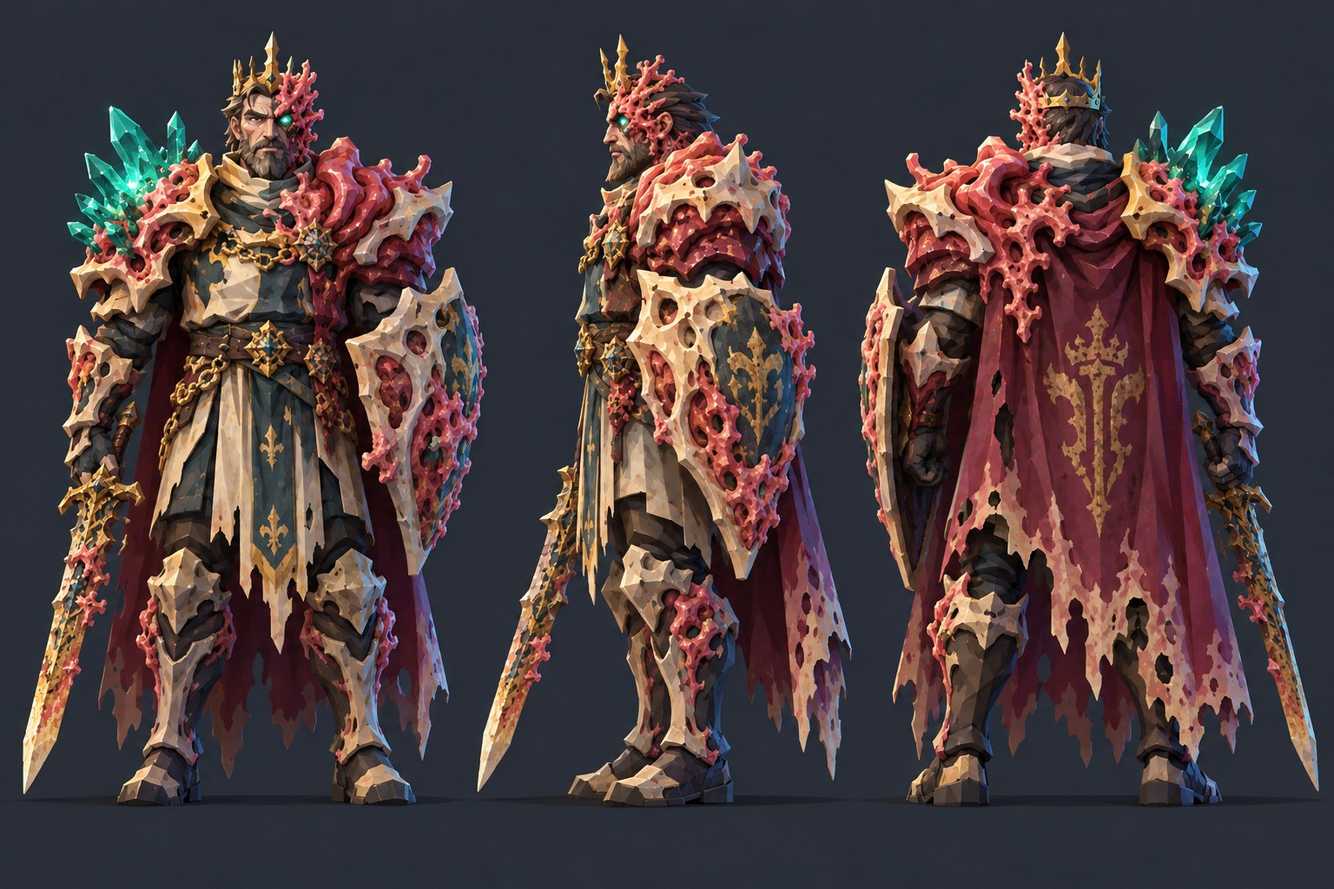
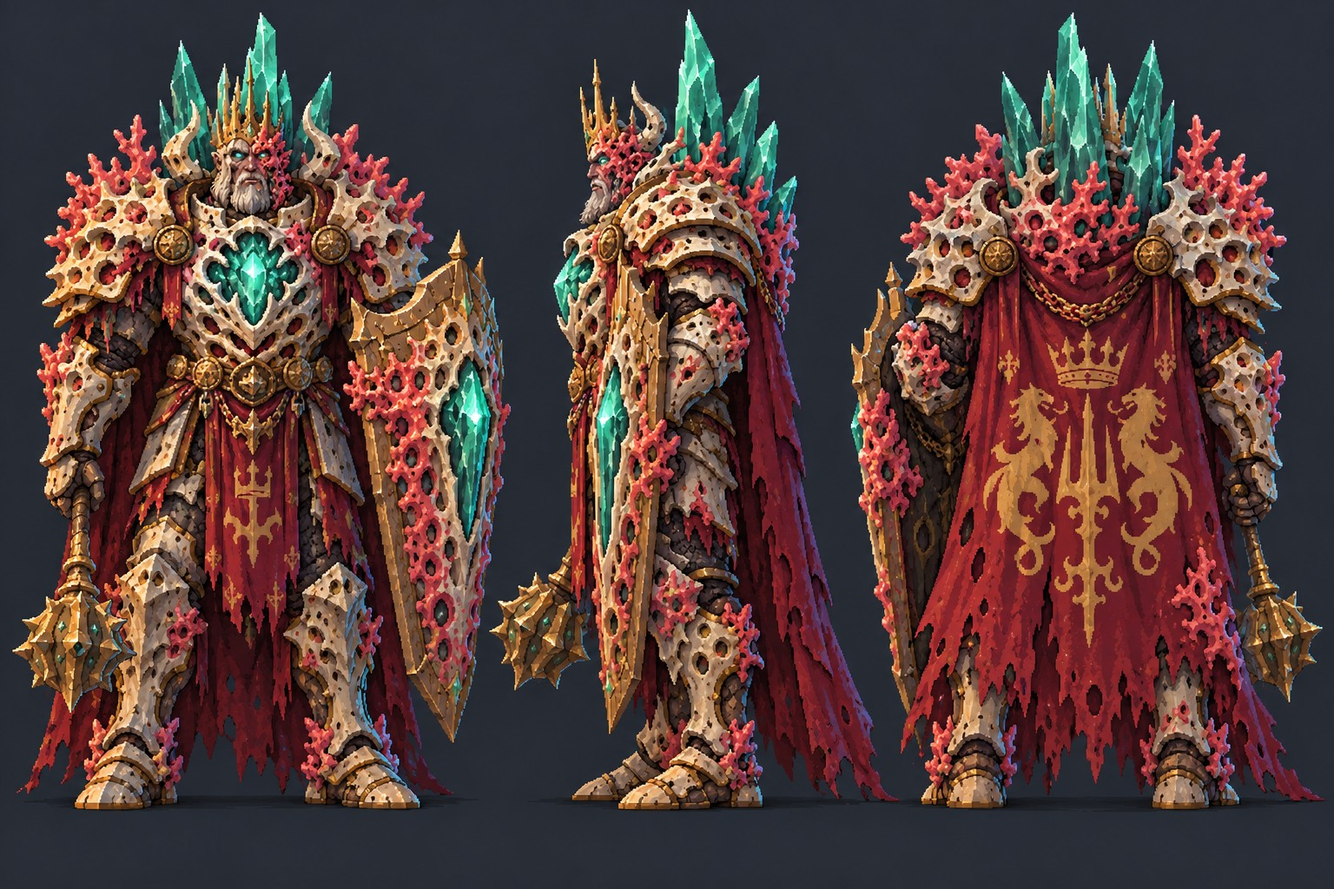
3막 부패한 왕 2판 원화('뼈 거상') + 뷰어 모델 — 결정 가시 볏 · 뿔 금관 · 큰 뼈 견갑과 산호 술 · 가슴 결정 핵 · 금 탑방패 · 금 가시 철퇴 · 망토 문장(1판 원화는 corruptking_v1.jpg)
Claude-Session: https://claude.ai/code/session_013Ys8dr7eBzpC28h3bn3fim

diff --git a/viewers/act3_monster_viewer_v1.html b/viewers/act3_monster_viewer_v1.html
@@ -1402,7 +1402,8 @@ function a3RotHeart(P) {
 // 금속이 아닌 유기 외골격 — 크림 뼈판 · 진홍 살 · 산호 고름 · 금 테 · 두꺼운 어깨 · 오른어깨 청록 결정 · 금 한손검 · 뼈·살 카이트 방패(문장) · 해진 진홍 망토
 // 리그는 예전 그대로(엉덩이 2.0 · 무릎 −0.92 · 발 −0.78 · 몸통 2.3 · 어깨 (±0.84, 0.86) · 팔꿈치 −0.74 · 손 −0.68 · 머리 1.42(×1.26))
 function a3King(P) {
-  // 원화 refs/몬스터/3막/corruptking.jpg — 영웅 체격 · 검은 속갑 위에 구멍 숭숭 난 크림 뼈 판(구멍마다 산호 살) · 4분할 겉옷(청록 흑 / 크림)과
+  // 원화 refs/몬스터/3막/corruptking.jpg(2판 '뼈 거상') — 거구 · 흰 수염 · 뿔 돋은 금관 · 머리 뒤 결정 가시 · 구멍 난 뼈 판금 · 가슴 결정 핵 · 금 탑방패 · 금 철퇴
+  // (1판 corruptking_v1.jpg 는 영웅 체격 · 검은 속갑 위에 구멍 숭숭 난 크림 뼈 판(구멍마다 산호 살) · 4분할 겉옷(청록 흑 / 크림)과
   // 금 백합 문장 · 가슴을 가로지른 금사슬과 별 브로치 · 가죽 허리띠 · 오른어깨 뼈 견갑 + 청록 결정 무리 · 왼어깨를 덮은 산호 살덩이 ·
   // 왼얼굴로 번진 산호와 빛나는 청록 눈 · 부러진 금관 · 썩은 금 검 · 뼈 카이트 방패 · 해진 진홍 망토(금 문장)
   const { K, grp, bodyGrp, headGrp, limbs } = P, C = A3_PAL, L = limbs;
@@ -1421,7 +1422,7 @@ function a3King(P) {
   const FL = K.mat(0x56192a, 'skin'), FLD = K.mat(0x34101b, 'skin'), PK = K.mat(0x661e2c, 'skin'), PKL = K.mat(0xdf1f45, 'skin');   // 살 — 3막 다른 몹과 같은 톤
   const UND = K.mat(0x140d0a), UNDD = K.mat(0x0a0706), LEA = K.mat(0x2a1206), LEAD = K.mat(0x170903);                           // 검은 속갑 · 가죽
   const TABT = K.mat(0x0b1a1e, 'cloth'), TABC = K.mat(0x6a4426, 'cloth'), TABCD = K.mat(0x3e2814, 'cloth');                      // 겉옷 — 청록 흑 / 크림
-  const GOLD = K.mat(0x5a2b00), GOLDD = K.mat(0x3a1c00), SKIN = K.mat(0x591e1d, 'skin'), SKIND = K.mat(0x3a120e, 'skin'), BEARD = K.mat(0x1e0e04), HAIR = K.mat(0x170a03);
+  const GOLD = K.mat(0x6a3400), GOLDD = K.mat(0x3a1c00), GOLDL = K.mat(0x8a4a00), SKIN = K.mat(0x591e1d, 'skin'), SKIND = K.mat(0x3a120e, 'skin'), BEARD = K.mat(0x4a3e36), HAIR = K.mat(0x3a302a);   // 흰 수염·머리(이 조명에서 회백으로 나온다)
   const CAPE = K.mat(0x2e080e, 'cloth'), CAPED = K.mat(0x180003, 'cloth'), CAPEP = K.mat(0x4a1420, 'cloth'), TEALP = K.mat(0x0b2a30, 'cloth');
   const CRY = new THREE.MeshStandardMaterial({ color: 0x0a2a28, emissive: 0x30e8c0, emissiveIntensity: 0.55, roughness: 0.35, flatShading: true }); CRY._glowMat = true;
   const EYE = K.mat(0x40f0d0, 'glow'); EYE.emissiveIntensity = 0.8; EYE._glowMat = true;
@@ -1456,49 +1457,60 @@ function a3King(P) {
   };
   const jag = (w, h, n, depth) => { const p = [[-w, 0], [w, 0]]; for (let i = 0; i <= n; i++) { const x = w - (2 * w * i) / n; p.push([x, -h + (i % 2 ? h * depth : 0) - K.rr() * h * 0.08]); } return p; };
 
-  // 몸통 — 앞이 능선진 팔각 기둥(위가 넓고 허리가 잘록한 역삼각형) · 겉옷 4분할(오른쪽 청록 흑 · 왼쪽 크림) · 금사슬과 별 브로치 · 목도리 · 가죽 허리띠
-  //        (매끈한 타원체로 지었더니 뚱뚱하고 둥글둥글했다 — 사용자 지적)
-  const CH = { y0: 0.05, y1: 0.95, rt: 0.62, rb: 0.42, zs: 0.66, cz: -0.02 };
+  const prism = (parent, m, rt, rb, h, n, x, y, z, zs, t0, tl) => { const g = new THREE.CylinderGeometry(rt, rb, h, n, 1, false, t0 || 0, tl || Math.PI * 2); g.scale(1, 1, zs || 1); return K.put(parent, new THREE.Mesh(g, m), x, y, z); };
+  const coralFringe = (parent, cx, cy, cz, rx, rz, n, a0, a1, up) => {          // 가장자리에 돋은 산호 술
+    for (let i = 0; i < n; i++) { const a = a0 + (a1 - a0) * (i + 0.5) / n, x = cx + Math.cos(a) * rx, z = cz + Math.sin(a) * rz;
+      branch(parent, [x, cy, z], [Math.cos(a) * 0.8, up || 0.3, Math.sin(a) * 0.8], 0.1 + K.rr() * 0.05, 0.07, 1);
+      K.ico(parent, 0.07 + K.rr() * 0.03, i % 2 ? PK : FL, x, cy, z, 1, 1, 1, 0); }   // 굵은 가지 + 밑동 혹(가는 가지는 화면에서 실선으로만 보였다)
+  };
+  // 몸통 — 넓은 뼈 흉갑(앞 능선 · 구멍) · 가운데 금 테 안의 빛나는 청록 결정 핵 · 금 허리띠와 메달 다섯 · 붉은 앞자락 금 삼지창
+  const CH = { y0: 0.0, y1: 1.0, rt: 0.74, rb: 0.5, zs: 0.7, cz: -0.02 };
   const chestR = (y) => CH.rb + (Math.min(CH.y1, Math.max(CH.y0, y)) - CH.y0) / (CH.y1 - CH.y0) * (CH.rt - CH.rb);
   const chestZ = (x, y) => CH.cz + CH.zs * (-chestR(y) + 0.414 * Math.abs(x)) - 0.012;
-  const prism = (parent, m, rt, rb, h, n, x, y, z, zs, t0, tl) => { const g = new THREE.CylinderGeometry(rt, rb, h, n, 1, false, t0 || 0, tl || Math.PI * 2); g.scale(1, 1, zs || 1); return K.put(parent, new THREE.Mesh(g, m), x, y, z); };
-  for (const [m, t0] of [[TABT, 0], [TABC, Math.PI]]) prism(torso, m, CH.rt, CH.rb, CH.y1 - CH.y0, 8, 0, (CH.y0 + CH.y1) / 2, CH.cz, CH.zs, t0, Math.PI);
-  prism(torso, UND, 0.44, 0.48, 0.36, 8, 0, -0.12, 0.0, 0.7);                                                // 허리(속갑)
-  prism(torso, UNDD, 0.58, 0.4, 0.86, 8, 0, 0.5, 0.06, 0.6);                                                // 등판
-  for (const [x, y, r] of [[0.3, 0.66, 0.06], [0.42, 0.34, 0.05], [0.16, 0.28, 0.05]]) K.ico(torso, r, TABC, x, y, chestZ(x, y), 1, 1, 0.25, 0);   // 겉옷 해진 얼룩
-  for (const [x, y, r] of [[-0.28, 0.7, 0.05], [-0.4, 0.42, 0.06]]) K.ico(torso, r, TABT, x, y, chestZ(x, y), 1, 1, 0.25, 0);
-  K.box(torso, 0.05, 0.86, 0.05, GOLD, 0, 0.5, chestZ(0, 0.5) + 0.0, Math.atan(0.2 * CH.zs / 0.9), 0, 0);        // 가운데 능선 금 테
-  { const pts = []; for (let i = 0; i <= 9; i++) { const t = i / 9, x = 0.5 - t * 1.0, y = 0.86 - Math.sin(t * Math.PI) * 0.3 - t * 0.04; pts.push([x, y, chestZ(x, y) - 0.02]); }
-    for (let i = 0; i < pts.length - 1; i++) { K.seg(torso, pts[i], pts[i + 1], 0.02, 0.02, GOLDD, 4); K.ico(torso, 0.026, GOLD, pts[i][0], pts[i][1], pts[i][2], 1, 1, 1, 0); } }
-  for (const [x, y] of [[0.3, 0.64], [-0.28, 0.62]]) { const z = chestZ(x, y) - 0.04;                    // 별 브로치
-    for (let i = 0; i < 8; i++) { const a = i / 8 * Math.PI * 2; K.cone(torso, 0.02, 0.09, i % 2 ? GOLDD : GOLD, 4, x + Math.cos(a) * 0.045, y + Math.sin(a) * 0.045, z, Math.PI / 2, 0, -a + Math.PI / 2); }
-    K.ico(torso, 0.036, GOLD, x, y, z, 1, 1, 0.6, 0); K.ico(torso, 0.02, EYE, x, y, z - 0.02, 1, 1, 0.6, 0); }
-  K.band(torso, 0.27, 0.1, TABC, 0, 0.99, -0.02, 8); K.band(torso, 0.25, 0.08, UND, 0, 1.07, -0.02, 8);   // 목도리(크림 · 검은 줄)
-  K.band(torso, 0.28, 0.03, TABCD, 0, 0.95, -0.02, 8);
+  prism(torso, BONE, CH.rt, CH.rb, CH.y1 - CH.y0, 8, 0, 0.5, CH.cz, CH.zs);
+  prism(torso, UNDD, 0.62, 0.46, 0.9, 8, 0, 0.5, 0.08, 0.62);                                              // 등판
+  prism(torso, UND, 0.5, 0.54, 0.34, 8, 0, -0.14, 0.0, 0.72);                                               // 허리(비늘 속갑)
+  for (let i = 0; i < 18; i++) { const sx = i % 2 ? 1 : -1, x = sx * (0.22 + K.rr() * 0.4), y = 0.12 + K.rr() * 0.8; if (Math.abs(x) > chestR(y) * 0.9) continue;   // 흉갑 구멍(붉은 살)
+    K.ico(torso, 0.04 + K.rr() * 0.035, i % 3 ? FLD : PK, x, y, chestZ(x, y) + 0.01, 1, 1, 0.35, 0); }
+  // 결정 핵 — 가슴 가운데 마름모 금 테 + 뼈 틀 + 큰 청록 결정
+  { const cy = 0.55, cz = chestZ(0, 0.55);
+    K.plate(torso, [[0, 0.36], [0.26, 0.04], [0, -0.34], [-0.26, 0.04]], 0.05, GOLD, 0, cy, cz - 0.01, 0, 0, 0);
+    K.plate(torso, [[0, 0.3], [0.21, 0.04], [0, -0.28], [-0.21, 0.04]], 0.06, FLD, 0, cy, cz - 0.02, 0, 0, 0);
+    const o = new THREE.OctahedronGeometry(0.2, 0); o.scale(0.85, 1.35, 0.6); K.put(torso, new THREE.Mesh(o, CRY), 0, cy, cz - 0.06);
+    for (const sx of [-1, 1]) for (let i = 0; i < 3; i++) K.seg(torso, [sx * 0.24, cy + 0.2 - i * 0.18, cz], [sx * 0.42, cy + 0.28 - i * 0.2, cz + 0.06], 0.05, 0.01, BONEL, 4);   // 핵을 감싼 뼈 갈퀴
+  }
+  K.band(torso, 0.26, 0.12, BONED, 0, 1.0, -0.02, 8); K.band(torso, 0.28, 0.04, GOLD, 0, 0.95, -0.02, 8);   // 목 깃
   K.seg(torso, [0, 0.95, 0], [0, 1.15, -0.02], 0.16, 0.14, SKIN, 6);
-  { const g = new THREE.CylinderGeometry(0.47, 0.49, 0.12, 8, 1, true); g.scale(1, 1, 0.72); K.put(torso, new THREE.Mesh(g, LEA), 0, -0.2, 0.0); }   // 가죽 허리띠
-  for (const [x, z] of [[0, -0.37], [0.27, -0.29], [-0.27, -0.29]]) { K.ico(torso, 0.06, GOLD, x, -0.2, z, 1.2, 1.2, 0.5, 0); K.ico(torso, 0.026, EYE, x, -0.2, z - 0.025, 1, 1, 0.5, 0); }
-  for (const sx of [-1, 1]) for (let i = 0; i < 5; i++) { const t = i / 4, x = sx * (0.08 + t * 0.18), y = -0.28 - Math.sin(t * Math.PI) * 0.1; K.ico(torso, 0.022, i % 2 ? GOLDD : GOLD, x, y, -0.38 + t * 0.06, 1, 1, 1, 0); }   // 늘어진 금사슬
-  // 왼쪽(−x) 옆구리 · 가슴으로 번진 산호
-  pus(torso, -0.46, 0.62, -0.1, 0.16, 0.3, 0.2, 14, 0.04, 0.08, (x, y, z) => x > 0.4);
-  for (let i = 0; i < 4; i++) branch(torso, [-0.42 + K.rr() * 0.1, 0.5 + K.rr() * 0.3, -0.3], [-0.3 + K.rr() * 0.6, 0.4, -0.6], 0.12, 0.03, 1);
-  // 망토 — 어깨 뒤에서 종아리까지 · 해진 끝 · 등 금 문장 · 아래로 번진 살빛 얼룩
-  K.plate(torso, jag(0.76, 2.1, 13, 0.16), 0.03, CAPE, 0, 0.94, 0.45, -0.12, 0, 0);
-  K.plate(torso, jag(0.74, 2.0, 13, 0.14), 0.02, CAPED, 0, 0.92, 0.48, -0.12, 0, 0);
-  const capeZ = (y) => 0.45 + (0.94 - y) * Math.sin(0.12) + 0.035;                                   // 기운 망토 겉면
-  fleur(torso, GOLD, 0, 0.3, capeZ(0.3), 2.0, -0.12);
-  K.plate(torso, [[-0.03, 0], [0.03, 0], [0.03, -0.7], [0, -0.78], [-0.03, -0.7]], 0.02, GOLD, 0, 0.0, capeZ(0.0), -0.12, 0, 0);
-  for (let i = 0; i < 7; i++) { const x = (K.rr() - 0.5) * 1.2, y = -0.5 - K.rr() * 0.55, r = 0.08 + K.rr() * 0.1; K.ico(torso, r, i % 3 ? CAPEP : FLD, x, y, capeZ(y) - 0.015, 1.2, 1.5, 0.06, 1, 0.02); }
-  // 앞자락 — 4분할(오른쪽 크림 · 왼쪽 청록 흑) · 가운데 청록 띠에 금 백합 · 해진 끝(다리를 따라 흔들린다)
-  K.plate(cloth, [[0, 0], [0.38, 0], [0.4, -0.98], [0.26, -1.1], [0.14, -0.96], [0, -1.08]], 0.03, TABC, 0, 0, -0.12, 0.06, 0, 0);
-  K.plate(cloth, [[-0.38, 0], [0, 0], [0, -1.08], [-0.12, -0.96], [-0.26, -1.12], [-0.4, -1.0]], 0.03, TABT, 0, 0, -0.12, 0.06, 0, 0);
-  K.plate(cloth, [[-0.1, 0], [0.1, 0], [0.1, -0.98], [0, -1.08], [-0.1, -0.98]], 0.03, TEALP, 0, -0.01, -0.145, 0.06, 0, 0);
-  for (const sx of [-1, 1]) K.plate(cloth, [[-0.012, 0], [0.012, 0], [0.012, -1.0], [-0.012, -1.0]], 0.03, GOLD, sx * 0.1, -0.01, -0.15, 0.06, 0, 0);
-  fleur(cloth, GOLD, 0, -0.62, -0.17, 0.85, 0.06);
-  K.plate(cloth, [[-0.38, 0], [0.38, 0], [0.38, -0.06], [-0.38, -0.06]], 0.035, GOLDD, 0, -0.02, -0.15, 0.06, 0, 0);
-  [-1, 1].forEach(sx => K.plate(cloth, [[-0.18, 0], [0.18, 0], [0.16, -0.72], [0.04, -0.84], [-0.12, -0.74], [-0.2, -0.8]], 0.03, sx > 0 ? TABT : TABC, sx * 0.42, 0.02, 0.18, 0.04, sx * 0.9, 0));
+  { const g = new THREE.CylinderGeometry(0.55, 0.57, 0.14, 8, 1, true); g.scale(1, 1, 0.74); K.put(torso, new THREE.Mesh(g, GOLDD), 0, -0.18, 0.0); }   // 금 허리띠
+  for (let i = 0; i < 5; i++) { const a = -Math.PI / 2 + (i - 2) * 0.42, x = Math.cos(a) * 0.55, z = Math.sin(a) * 0.55 * 0.74 - 0.02;
+    K.ico(torso, 0.075, GOLDL, x, -0.18, z, 1, 1, 0.45, 0); K.cone(torso, 0.03, 0.08, GOLD, 4, x, -0.18, z - 0.03, -Math.PI / 2, 0, 0); }
+  for (const sx of [-1, 1]) for (let i = 0; i < 5; i++) { const t = i / 4, x = sx * (0.1 + t * 0.2), y = -0.28 - Math.sin(t * Math.PI) * 0.1; K.ico(torso, 0.024, i % 2 ? GOLDD : GOLD, x, y, -0.42 + t * 0.06, 1, 1, 1, 0); }
+  // 뒤 — 큰 결정 가시 무리가 머리 뒤에서 위로 부채처럼(원화의 실루엣 꼭대기)
+  for (const [x, z, h, rx, rz, r] of [[0, 0.22, 1.05, 0.12, 0, 0.11], [0.22, 0.2, 0.86, 0.18, -0.32, 0.1], [-0.22, 0.2, 0.86, 0.18, 0.32, 0.1], [0.42, 0.16, 0.66, 0.15, -0.6, 0.085], [-0.42, 0.16, 0.66, 0.15, 0.6, 0.085],
+    [0.12, 0.34, 0.7, 0.4, -0.12, 0.08], [-0.12, 0.34, 0.7, 0.4, 0.12, 0.08], [0.56, 0.1, 0.48, 0.1, -0.85, 0.07], [-0.56, 0.1, 0.48, 0.1, 0.85, 0.07]]) {
+    const H = h * 1.55, R = r * 1.25; const geo = new THREE.CylinderGeometry(R, R * 1.15, H, 6); geo.translate(0, H / 2, 0); const tip = new THREE.ConeGeometry(R, R * 2.6, 6); tip.translate(0, H + R * 1.3, 0);
+    for (const gg of [geo, tip]) K.put(torso, new THREE.Mesh(gg, CRY), x * 1.1, 0.92, z, rx, 0, rz);
+  }
+  K.ico(torso, 1, FLD, 0, 1.0, 0.24, 0.5, 0.14, 0.18, 0);                                                  // 결정 밑동의 살
+  // 망토 — 넓고 길게 · 해진 끝 · 등 금 문장(왕관 · 삼지창 · 양쪽 굽은 짐승)
+  K.plate(torso, jag(0.92, 2.25, 15, 0.18), 0.03, CAPE, 0, 0.96, 0.5, -0.12, 0, 0);
+  K.plate(torso, jag(0.9, 2.15, 15, 0.16), 0.02, CAPED, 0, 0.94, 0.53, -0.12, 0, 0);
+  const capeZ = (y) => 0.5 + (0.96 - y) * Math.sin(0.12) + 0.035;
+  { const y = 0.42; K.plate(torso, [[-0.18, 0], [-0.18, 0.12], [-0.1, 0.06], [0, 0.16], [0.1, 0.06], [0.18, 0.12], [0.18, 0], [-0.18, 0]], 0.02, GOLD, 0, y, capeZ(y), -0.12, Math.PI, 0); }   // 왕관
+  { const y = -0.75; K.plate(torso, [[-0.025, 0], [0.025, 0], [0.025, 0.85], [-0.025, 0.85]], 0.02, GOLD, 0, y, capeZ(y), -0.12, Math.PI, 0);   // 삼지창
+    for (const sx of [-1, 0, 1]) K.plate(torso, [[-0.03, 0], [0.03, 0], [0, 0.16]], 0.02, GOLD, sx * 0.1, y + 0.85, capeZ(y + 0.9), -0.12, Math.PI, 0);
+    K.plate(torso, [[-0.13, 0], [0.13, 0], [0.13, 0.04], [-0.13, 0.04]], 0.02, GOLD, 0, y + 0.82, capeZ(y + 0.85), -0.12, Math.PI, 0); }
+  for (const sx of [-1, 1]) K.plate(torso, K.mir([[0.12, 0.3], [0.3, 0.42], [0.4, 0.3], [0.34, 0.1], [0.42, -0.12], [0.3, -0.3], [0.2, -0.16], [0.26, 0.02], [0.16, 0.12]], sx), 0.02, GOLD, 0, -0.18, capeZ(-0.2), -0.12, Math.PI, 0);   // 굽은 짐승
+  for (let i = 0; i < 8; i++) { const x = (K.rr() - 0.5) * 1.5, y = -0.5 - K.rr() * 0.7, r = 0.07 + K.rr() * 0.08; K.ico(torso, r, i % 3 ? CAPEP : FLD, x, y, capeZ(y) - 0.015, 1.2, 1.5, 0.06, 1, 0.02); }
+  // 앞자락 — 붉은 천 · 금 삼지창 · 양옆 뼈 허리판(구멍)
+  K.plate(cloth, [[-0.24, 0], [0.24, 0], [0.26, -0.98], [0.14, -1.1], [0.04, -0.96], [-0.08, -1.12], [-0.18, -0.98], [-0.26, -1.06]], 0.03, CAPE, 0, 0, -0.14, 0.06, 0, 0);
+  K.plate(cloth, [[-0.02, 0], [0.02, 0], [0.02, -0.42], [-0.02, -0.42]], 0.035, GOLD, 0, -0.32, -0.17, 0.06, 0, 0);
+  for (const sx of [-1, 0, 1]) K.plate(cloth, [[-0.025, 0], [0.025, 0], [0, 0.1]], 0.035, GOLD, sx * 0.07, -0.34, -0.17, 0.06, 0, 0);
+  K.plate(cloth, [[-0.1, 0], [0.1, 0], [0.1, 0.03], [-0.1, 0.03]], 0.035, GOLD, 0, -0.35, -0.17, 0.06, 0, 0);
+  for (const sx of [-1, 1]) { crust(cloth, sx * 0.4, -0.22, -0.02, 0.2, 0.26, 0.16, 9, 0.06, 0.09, (x, y, z) => z > 0.4);   // 뼈 허리판
+    coralFringe(cloth, sx * 0.4, -0.42, -0.04, 0.14, 0.1, 3, sx > 0 ? -1.2 : Math.PI - 0.6, sx > 0 ? 0.6 : Math.PI + 1.2, -0.4); }
 
-  // 머리 — 중년 얼굴 · 짙은 갈색 수염·머리칼 · 왼얼굴(−x)로 번진 산호(관 위까지) · 그쪽 청록 눈 · 부러진 금관
+  // 머리 — 흰 수염의 각진 얼굴(아래 얼굴 블록) · 왼얼굴로 번진 산호 · 뿔 돋은 금관
   // 얼굴 — 적은 면으로 또렷하게: 각진 두개골 · 굵은 눈두덩과 찌푸린 눈썹 · 움푹한 눈구멍(오른눈 흰자 한 점 · 왼눈 청록) ·
   //        쐐기 코 · 광대 면 · 각진 턱 · 팔자 콧수염 · 뾰족한 턱수염. 평면 셰이딩 재질(피부 표식은 노멀을 뭉개 이목구비가 흐려졌다)
   const FSK = K.mat(0x5e2220), FSKL = K.mat(0x7a2e26), FSKD = K.mat(0x34110f), SOCK = K.mat(0x0c0504), EYEW = K.mat(0x8a7060);
@@ -1520,90 +1532,78 @@ function a3King(P) {
   K.box(headGrp, 0.32, 0.12, 0.14, BEARD, 0, -0.17, -0.12, 0.15, 0, 0);                                  // 턱수염 덩어리(턱선을 따라)
   { const c = new THREE.ConeGeometry(0.12, 0.2, 5); c.rotateX(Math.PI); K.put(headGrp, new THREE.Mesh(c, BEARD), 0, -0.3, -0.15, 0.25, 0, 0); }   // 뾰족한 턱수염 끝
   for (const sx of [-1, 1]) K.box(headGrp, 0.06, 0.2, 0.16, BEARD, sx * 0.16, -0.06, -0.04, 0, 0, sx * 0.08);   // 구레나룻
-  K.ico(headGrp, 1, HAIR, 0.02, 0.12, 0.06, 0.25, 0.2, 0.25, 0, 0.015);                                  // 머리칼(정수리 · 뒤)
+  K.ico(headGrp, 1, HAIR, 0.02, 0.1, 0.07, 0.24, 0.18, 0.24, 0, 0.015);                                  // 머리칼(정수리 · 뒤)
   for (const [x, y, z, rz] of [[0.18, 0.16, -0.06, -0.7], [0.06, 0.22, -0.14, -0.25], [0.22, 0.0, 0.04, -0.2], [-0.04, 0.24, 0.1, 0.3], [0.12, 0.1, 0.18, -0.4]]) K.cone(headGrp, 0.07, 0.24, HAIR, 4, x, y, z, -0.4, 0, rz);   // 흐트러진 머리 다발
   K.box(headGrp, 0.08, 0.22, 0.18, HAIR, 0.2, -0.04, 0.08, 0, 0, -0.1);
   pus(headGrp, -0.16, 0.06, -0.06, 0.12, 0.18, 0.16, 14, 0.03, 0.06, (x, y, z) => x > 0.1);
-  for (let i = 0; i < 3; i++) branch(headGrp, [-0.16, 0.18 + i * 0.04, -0.06 + i * 0.06], [-0.4 + K.rr() * 0.3, 1, -0.2 + K.rr() * 0.4], 0.12, 0.03, 1);   // 관 위로 솟은 산호 가지
-  crown.position.set(0, 0.2, 0.01); crown.rotation.set(0.06, 0, -0.08);
-  K.band(crown, 0.24, 0.07, GOLD, 0, 0, 0, 12);
-  for (let i = 0; i < 7; i++) { const a = -Math.PI / 2 + (i - 3) * 0.55, broken = (i === 1 || i === 2), h = broken ? 0.05 : 0.15 + (i === 3 ? 0.12 : 0);
-    K.cone(crown, 0.045, h, i % 2 ? GOLDD : GOLD, 4, Math.cos(a) * 0.24, 0.035 + h / 2, Math.sin(a) * 0.24, 0, 0, 0); }
-  K.ico(crown, 0.035, EYE, 0, 0.02, -0.25, 1, 1, 0.6, 0);
+  crown.position.set(0, 0.2, 0.01); crown.rotation.set(0.04, 0, -0.05);
+  K.band(crown, 0.25, 0.08, GOLD, 0, 0, 0, 8);
+  for (let i = 0; i < 7; i++) { const a = -Math.PI / 2 + (i - 3) * 0.5, h = 0.16 + (i === 3 ? 0.18 : (i === 2 || i === 4) ? 0.08 : 0);
+    K.cone(crown, 0.045, h, i % 2 ? GOLDD : GOLDL, 4, Math.cos(a) * 0.25, 0.04 + h / 2, Math.sin(a) * 0.25, 0, 0, 0); }
+  K.ico(crown, 0.04, EYE, 0, 0.03, -0.26, 1, 1, 0.6, 0);
+  for (const sx of [-1, 1]) {                                                                              // 관 옆에서 돋아 위로 휜 뼈 뿔
+    const p0 = [sx * 0.22, 0.02, 0.02], p1 = [sx * 0.34, 0.14, 0.04], p2 = [sx * 0.38, 0.32, 0.0], p3 = [sx * 0.32, 0.46, -0.04];
+    K.seg(crown, p0, p1, 0.07, 0.055, BONE, 5); K.seg(crown, p1, p2, 0.055, 0.035, BONEL, 5); K.seg(crown, p2, p3, 0.035, 0.005, BONEL, 5); }
+  for (let i = 0; i < 3; i++) branch(headGrp, [-0.16, 0.18 + i * 0.04, -0.06 + i * 0.06], [-0.4 + K.rr() * 0.3, 1, -0.2 + K.rr() * 0.4], 0.12, 0.03, 1);
 
-  // 어깨 — 크림 뼈 견갑 두 겹(가장자리 뼈 혹·가시 · 구멍 숭숭) · 오른어깨 청록 결정 무리(bloom) · 왼어깨는 산호 살덩이가 덮었다
-  // 뼈 견갑 — 각진 면 덩어리 + 겹판 둘(팔각 띠) · 가장자리에서 위·바깥으로 솟은 긴 뼈 가시(원화의 들쭉날쭉한 윤곽)
+  // 어깨 — 큰 둥근 뼈 견갑(살 심 위 각진 뼈 조각 = 구멍마다 붉은 살) · 가장자리 산호 술 · 앞에 금 원판 · 아래 겹판
   const pauldron = (A, sx) => {
-    const g = new THREE.Group(); g.position.set(sx * 0.04, 0.08, 0); g.rotation.z = -sx * 0.22; g.scale.setScalar(1.15); A.add(g);
-    crust(g, sx * 0.04, 0.04, 0, 0.34, 0.28, 0.33, 22, 0.1, 0.16, (x, y, z) => y < -0.2);              // 꼭대기 뼈 껍질
-    crust(g, sx * 0.08, -0.24, 0, 0.32, 0.22, 0.3, 16, 0.08, 0.13, (x, y, z) => sx * x < -0.1 || y > 0.5);  // 위팔로 흘러내린 겹판
-    const spike = (x, y, z, dx, dy, dz, len, r, m) => K.seg(g, [x, y, z], [x + dx * len, y + dy * len, z + dz * len], r, 0.004, m, 4);
-    for (let i = 0; i < 9; i++) { const a = (i / 8 - 0.5) * 2.9, cx = Math.cos(a), cz = Math.sin(a);           // 위 가장자리 큰 가시
-      spike(sx * (0.03 + cx * 0.3), 0.1, cz * 0.3, sx * cx * 0.4, 0.9, cz * 0.35, 0.18 + (i % 3) * 0.08, 0.05, i % 2 ? BONEL : BONE); }
-    for (let i = 0; i < 6; i++) { const a = (i / 5 - 0.5) * 2.6, cx = Math.cos(a), cz = Math.sin(a);           // 아랫단 짧은 가시
-      spike(sx * (0.06 + cx * 0.3), -0.4, cz * 0.28, sx * cx * 0.8, -0.35, cz * 0.5, 0.13, 0.035, BONED); }
-    if (sx < 0) {                                                                                          // 왼어깨 — 견갑을 넘쳐 덮은 산호 살덩이
-      pus(g, sx * 0.02, 0.06, 0, 0.38, 0.32, 0.38, 22, 0.08, 0.13, (x, y, z) => y < -0.25 || x * sx < -0.5, [FL, PK, PK, FLD]);
-      for (let i = 0; i < 6; i++) { const a = K.rr() * Math.PI * 2; branch(g, [sx * 0.02 + Math.cos(a) * 0.26, 0.14, Math.sin(a) * 0.26], [Math.cos(a) * 0.6, 0.8, Math.sin(a) * 0.6], 0.13, 0.035, 1); }
-      pus(g, sx * -0.28, 0.02, -0.18, 0.12, 0.1, 0.1, 7, 0.035, 0.06);
-    }
+    const g = new THREE.Group(); g.position.set(sx * 0.06, 0.1, 0); g.rotation.z = -sx * 0.2; g.scale.setScalar(1.3); A.add(g);
+    crust(g, sx * 0.06, 0.04, 0, 0.42, 0.34, 0.4, 26, 0.1, 0.16, (x, y, z) => y < -0.25);
+    crust(g, sx * 0.1, -0.26, 0, 0.36, 0.2, 0.34, 14, 0.08, 0.12, (x, y, z) => sx * x < -0.1 || y > 0.5);
+    coralFringe(g, sx * 0.06, 0.02, 0, 0.42, 0.4, 9, -Math.PI * 0.95, Math.PI * 0.95, 0.4);
+    if (sx < 0) coralFringe(g, sx * 0.06, 0.2, 0, 0.3, 0.3, 5, -2.6, 2.6, 0.9);
+    const rx = sx * 0.06 + sx * -0.2, rz = -0.38;                                                          // 앞 금 원판(별)
+    K.cyl(g, 0.11, 0.11, 0.04, GOLD, 8, rx, -0.02, rz, Math.PI / 2, 0, 0);
+    for (let i = 0; i < 8; i++) { const a = i / 8 * Math.PI * 2; K.cone(g, 0.02, 0.07, GOLDL, 4, rx + Math.cos(a) * 0.05, -0.02 + Math.sin(a) * 0.05, rz - 0.03, Math.PI / 2, 0, -a + Math.PI / 2); }
+    for (let i = 0; i < 4; i++) { const a = (i / 3 - 0.5) * 2.2; K.seg(g, [sx * (0.1 + Math.cos(a) * 0.32), -0.36, Math.sin(a) * 0.3], [sx * (0.1 + Math.cos(a) * 0.46), -0.46, Math.sin(a) * 0.4], 0.035, 0.004, BONED, 4); }
   };
   pauldron(L.armR, 1); pauldron(L.armL, -1);
-  // 결정 무리 — 육각 기둥 + 뾰족한 끝, 오른어깨 뒤에서 위·바깥으로 부채처럼
-  for (const [x, z, h, rx, rz, r] of [[0, 0, 0.75, 0.1, -0.2, 0.09], [0.16, 0.12, 0.6, 0.4, -0.55, 0.08], [-0.12, -0.06, 0.55, -0.3, 0.1, 0.07], [0.12, -0.14, 0.5, -0.5, -0.45, 0.07],
-    [-0.08, 0.16, 0.5, 0.55, 0.05, 0.07], [0.24, -0.02, 0.42, 0, -0.9, 0.06], [0.04, 0.22, 0.44, 0.8, -0.3, 0.06], [-0.18, 0.08, 0.36, 0.3, 0.4, 0.05], [0.2, 0.22, 0.34, 0.7, -0.8, 0.05]]) {
-    const geo = new THREE.CylinderGeometry(r, r * 1.1, h, 6); geo.translate(0, h / 2, 0); const tip = new THREE.ConeGeometry(r, r * 2.2, 6); tip.translate(0, h + r * 1.1, 0);
-    for (const gg of [geo, tip]) { gg.scale(0.85, 0.62, 0.85); K.put(bloom, new THREE.Mesh(gg, CRY), x * 1.4, 0.08, z * 1.4 + 0.08, rx, 0, rz); }
-  }
-  K.ico(bloom, 0.16, FLD, 0, 0.1, 0, 1.4, 0.5, 1.3, 1);
-  pus(bloom, 0, 0.14, 0, 0.26, 0.1, 0.24, 8, 0.03, 0.05);
-  // 팔 — 가는 검은 속갑 · 위팔 바깥 뾰족한 뼈 판 · 뼈 팔꿈치 가시 · 각진 육각 팔보호대(구멍 · 바깥 가시) · 각진 건틀릿
+  // 팔 — 비늘 속갑 · 위팔 뼈 판 · 뼈 팔꿈치 · 구멍 난 뼈 팔보호대 + 산호 · 뼈 건틀릿
   const arm = (A, E, H, sx) => {
-    K.seg(A, [0, -0.05, 0], [0, -0.74, 0], 0.15, 0.13, UND, 6);
-    K.plate(A, K.mir([[-0.02, 0.05], [0.12, 0.02], [0.15, -0.3], [0.08, -0.5], [-0.02, -0.4]], sx), 0.06, BONED, sx * 0.1, -0.12, 0, 0, sx * Math.PI / 2, 0);   // 위팔 바깥 판
-    K.ico(E, 0.13, BONE, 0, 0, 0.03, 1, 1, 1, 0, 0.015); K.cone(E, 0.05, 0.22, BONEL, 4, 0, 0.0, 0.2, Math.PI / 2, 0, 0);
-    K.seg(E, [0, 0, 0], [0, -0.66, 0], 0.13, 0.11, UND, 6);
-    crust(E, 0, -0.32, -0.01, 0.15, 0.25, 0.15, 12, 0.06, 0.09, (x, y, z) => Math.abs(y) > 0.85);
-    for (let i = 0; i < 3; i++) K.seg(E, [sx * 0.15, -0.16 - i * 0.12, 0], [sx * 0.29, -0.06 - i * 0.12, 0.02], 0.035, 0.004, BONEL, 4);   // 팔보호대 바깥 가시
-    K.band(E, 0.14, 0.05, GOLD, 0, -0.56, 0, 6);
-    K.box(H, 0.2, 0.18, 0.22, UNDD, 0, -0.06, -0.02, 0, 0, 0);
-    for (let i = 0; i < 3; i++) K.box(H, 0.05, 0.04, 0.07, UND, (i - 1) * 0.06, -0.14, -0.12, 0, 0, 0);
+    K.seg(A, [0, -0.05, 0], [0, -0.74, 0], 0.17, 0.15, UND, 6);
+    crust(A, sx * 0.05, -0.42, 0, 0.19, 0.24, 0.19, 8, 0.07, 0.1, (x, y, z) => sx * x < -0.3);
+    K.ico(E, 0.15, BONE, 0, 0, 0.03, 1, 1, 1, 0, 0.015); K.cone(E, 0.05, 0.2, BONEL, 4, 0, 0.0, 0.2, Math.PI / 2, 0, 0);
+    K.seg(E, [0, 0, 0], [0, -0.66, 0], 0.15, 0.13, UND, 6);
+    crust(E, 0, -0.32, -0.01, 0.17, 0.27, 0.17, 13, 0.065, 0.1, (x, y, z) => Math.abs(y) > 0.85);
+    coralFringe(E, sx * 0.12, -0.3, 0, 0.06, 0.12, 2, sx > 0 ? -0.6 : Math.PI - 0.6, sx > 0 ? 0.6 : Math.PI + 0.6, 0.1);
+    K.band(E, 0.16, 0.05, GOLD, 0, -0.58, 0, 6);
+    K.box(H, 0.22, 0.2, 0.24, BONED, 0, -0.06, -0.02, 0, 0, 0);
+    for (let i = 0; i < 3; i++) K.box(H, 0.055, 0.045, 0.08, BONE, (i - 1) * 0.065, -0.15, -0.12, 0, 0, 0);
   };
   arm(L.armR, elR, hR, 1); arm(L.armL, elL, hL, -1);
-  // 다리 — 가는 검은 속갑 · 허벅지 앞 뾰족한 뼈 판 · 뾰족한 팔면 무릎 덮개(옆 가시) · 각진 육각 정강이(구멍) · 각진 장화(뼈 코)
+  // 다리 — 비늘 속갑 · 구멍 난 뼈 허벅지·무릎·정강이(산호) · 뼈 철갑화
   const leg = (Lg, Kn, F) => {
-    K.seg(Lg, [0, 0, 0], [0, -0.92, 0], 0.2, 0.15, UND, 6);
-    K.plate(Lg, [[-0.14, 0], [0.14, 0], [0.12, -0.42], [0, -0.58], [-0.12, -0.42]], 0.05, BONED, 0, -0.26, -0.17, 0.08, 0, 0);
-    holes(Lg, 0, -0.5, -0.17, 0.1, 0.16, 0.03, 4, () => false);
-    { const o = new THREE.OctahedronGeometry(0.17, 0); o.scale(1, 1.15, 0.9); K.put(Kn, new THREE.Mesh(o, BONE), 0, 0.02, -0.1); }
-    K.cone(Kn, 0.07, 0.26, BONEL, 4, 0, 0.06, -0.26, -Math.PI / 2 - 0.3, 0, 0);
-    for (const sx of [-1, 1]) K.seg(Kn, [sx * 0.12, 0.04, -0.08], [sx * 0.28, 0.14, -0.12], 0.04, 0.004, BONE, 4);
-    K.seg(Kn, [0, 0, 0], [0, -0.74, 0], 0.15, 0.12, UND, 6);
-    crust(Kn, 0, -0.36, -0.04, 0.17, 0.3, 0.16, 14, 0.07, 0.1, (x, y, z) => Math.abs(y) > 0.88);
-    K.cone(Kn, 0.09, 0.2, BONEL, 4, 0, -0.02, -0.18, -0.25, 0, 0);                                         // 정강이 위 뾰족한 끝
-    K.band(Kn, 0.15, 0.05, GOLDD, 0, -0.66, 0, 6);
-    K.box(F, 0.24, 0.18, 0.42, LEAD, 0, -0.17, -0.1, 0, 0, 0);
-    K.cone(F, 0.12, 0.2, BONE, 4, 0, -0.17, -0.38, -Math.PI / 2, Math.PI / 4, 0);
+    K.seg(Lg, [0, 0, 0], [0, -0.92, 0], 0.23, 0.17, UND, 6);
+    crust(Lg, 0, -0.5, -0.04, 0.24, 0.32, 0.22, 12, 0.07, 0.11, (x, y, z) => z > 0.5);
+    { const o = new THREE.OctahedronGeometry(0.19, 0); o.scale(1, 1.15, 0.9); K.put(Kn, new THREE.Mesh(o, BONE), 0, 0.02, -0.1); }
+    K.cone(Kn, 0.07, 0.24, BONEL, 4, 0, 0.06, -0.26, -Math.PI / 2 - 0.3, 0, 0);
+    K.seg(Kn, [0, 0, 0], [0, -0.74, 0], 0.17, 0.14, UND, 6);
+    crust(Kn, 0, -0.36, -0.04, 0.2, 0.32, 0.19, 15, 0.075, 0.11, (x, y, z) => Math.abs(y) > 0.88);
+    coralFringe(Kn, 0, -0.5, 0, 0.18, 0.16, 3, 0.4, Math.PI * 2 - 0.4, 0.1);
+    K.box(F, 0.28, 0.2, 0.46, BONED, 0, -0.17, -0.1, 0, 0, 0);
+    K.box(F, 0.26, 0.08, 0.2, BONE, 0, -0.08, -0.22, 0.25, 0, 0);
+    K.cone(F, 0.13, 0.2, BONE, 4, 0, -0.17, -0.4, -Math.PI / 2, Math.PI / 4, 0);
   };
   leg(L.legR, kR, fR); leg(L.legL, kL, fL);
-  // 검 — 금 손잡이·코등이(뼈 가시 · 청록 보석) · 썩은 금 칼날에 산호가 슬었다
-  K.seg(sword, [0, -0.02, 0], [0, 0.26, 0], 0.03, 0.03, LEAD, 6); K.ico(sword, 0.055, GOLD, 0, -0.04, 0, 1, 1, 1, 0);
-  K.box(sword, 0.36, 0.05, 0.06, GOLD, 0, 0.28, 0, 0, 0, 0); K.ico(sword, 0.035, EYE, 0, 0.28, -0.035, 1, 1, 0.6, 0);
-  for (const sx of [-1, 1]) K.cone(sword, 0.03, 0.12, GOLDD, 4, sx * 0.2, 0.31, 0, 0, 0, -sx * 0.9);
-  K.plate(sword, [[-0.085, 0], [0.085, 0], [0.08, 1.25], [0, 1.5], [-0.08, 1.25]], 0.04, BLADE, 0, 0.3, 0, 0, 0, 0);
-  K.plate(sword, [[-0.02, 0], [0.02, 0], [0.02, 1.15], [-0.02, 1.15]], 0.05, GOLDD, 0, 0.32, 0, 0, 0, 0);
-  pus(sword, 0, 0.8, 0, 0.06, 0.45, 0.025, 12, 0.02, 0.04);
-  // 방패 — 뼈 카이트 방패(구멍마다 살) · 청록 판 위 금 백합 · 바깥 가장자리로 자란 산호 가지
-  const kite = (s) => [[0, 0.62 * s], [0.42 * s, 0.4 * s], [0.38 * s, -0.3 * s], [0, -0.95 * s], [-0.38 * s, -0.3 * s], [-0.42 * s, 0.4 * s]];
-  K.plate(shield, kite(1.12), 0.05, FLD, 0, 0, 0.03, 0, 0, 0);
-  K.plate(shield, kite(1.04), 0.08, BONE, 0, 0, 0, 0, 0, 0);
-  K.plate(shield, kite(0.7), 0.04, TEALP, 0, 0.0, -0.045, 0, 0, 0);
-  K.plate(shield, kite(0.74), 0.03, GOLDD, 0, 0.0, -0.035, 0, 0, 0);
-  fleur(shield, GOLD, 0, 0.0, -0.075, 1.5, 0);
-  for (let i = 0; i < 16; i++) { const t = i / 16, k = kite(0.87), a = k[Math.floor(t * 6)], b = k[(Math.floor(t * 6) + 1) % 6], f = (t * 6) % 1;   // 테두리 구멍
-    const x = a[0] + (b[0] - a[0]) * f, y = a[1] + (b[1] - a[1]) * f; K.ico(shield, 0.045 + (i % 3) * 0.01, i % 2 ? FLD : PK, x, y, -0.04, 1, 1, 0.4, 0); }
-  pus(shield, -0.36, -0.15, -0.03, 0.12, 0.38, 0.06, 14, 0.03, 0.06, (x, y, z) => z > 0);
-  for (let i = 0; i < 4; i++) branch(shield, [-0.4, -0.4 + i * 0.22, -0.02], [-1, 0.2 + K.rr() * 0.4, -0.3], 0.12, 0.03, 1);
+  // 철퇴 — 뼈 자루 · 금 손잡이 · 금 테두리 가시 철퇴 머리(가운데 청록 보석)
+  K.seg(sword, [0, -0.12, 0], [0, 0.8, 0], 0.035, 0.035, LEAD, 6); K.ico(sword, 0.06, GOLD, 0, -0.14, 0, 1, 1, 1, 0);
+  for (let i = 0; i < 3; i++) K.band(sword, 0.045, 0.03, GOLD, 0, 0.1 + i * 0.12, 0, 6);
+  K.ico(sword, 0.24, GOLD, 0, 0.98, 0, 1, 1.15, 1, 0);
+  for (let i = 0; i < 8; i++) { const a = i / 8 * Math.PI * 2; K.cone(sword, 0.07, 0.24, GOLDL, 4, Math.cos(a) * 0.23, 0.98, Math.sin(a) * 0.23, Math.sin(a) * Math.PI / 2, 0, -Math.cos(a) * Math.PI / 2); }
+  K.cone(sword, 0.07, 0.26, GOLDL, 4, 0, 1.26, 0, 0, 0, 0); K.cone(sword, 0.04, 0.12, GOLD, 4, 0, 0.74, 0, Math.PI, 0, 0);
+  for (const a of [0, Math.PI / 2, Math.PI, Math.PI * 1.5]) K.ico(sword, 0.045, EYE, Math.cos(a) * 0.21, 0.98, Math.sin(a) * 0.21, 1, 1, 1, 0);
+  // 탑방패 — 금 테 · 구멍 난 뼈 판(구멍마다 산호) · 가운데 큰 청록 결정 · 위 금 가시
+  const tower = (s) => [[0, 0.82 * s], [0.38 * s, 0.7 * s], [0.42 * s, -0.55 * s], [0, -1.05 * s], [-0.42 * s, -0.55 * s], [-0.38 * s, 0.7 * s]];
+  K.plate(shield, tower(1.08), 0.06, GOLD, 0, 0, 0.03, 0, 0, 0);
+  K.plate(shield, tower(0.98), 0.09, BONE, 0, 0, 0, 0, 0, 0);
+  for (let i = 0; i < 22; i++) { const x = (K.rr() - 0.5) * 0.66, y = (K.rr() - 0.5) * 1.5 - 0.05; if (Math.abs(x) < 0.12 && Math.abs(y) < 0.45) continue; if (y < -0.5 && Math.abs(x) > 0.42 * (1 - (-y - 0.5) / 0.5)) continue;
+    K.ico(shield, 0.045 + K.rr() * 0.03, i % 3 ? FLD : PK, x, y, -0.05, 1, 1, 0.4, 0); }
+  { const o = new THREE.OctahedronGeometry(0.2, 0); o.scale(0.7, 2.2, 0.5); K.put(shield, new THREE.Mesh(o, CRY), 0, -0.02, -0.08); }
+  K.plate(shield, [[0, 0.52], [0.18, 0], [0, -0.55], [-0.18, 0]], 0.04, GOLDD, 0, -0.02, -0.055, 0, 0, 0);
+  for (const sx of [-1, 1]) K.cone(shield, 0.04, 0.18, GOLDL, 4, sx * 0.4, 0.82, 0, 0, 0, -sx * 0.3);
+  K.cone(shield, 0.05, 0.24, GOLDL, 4, 0, 0.98, 0, 0, 0, 0);
+  for (let i = 0; i < 6; i++) branch(shield, [-0.42, -0.5 + i * 0.22, -0.02], [-1, 0.2 + K.rr() * 0.4, -0.3], 0.12, 0.03, 1);
   c3MergeStatic(sword); c3MergeStatic(shield); c3MergeStatic(crown); c3MergeStatic(headGrp, [crown]);
   c3MergeStatic(bloom); c3MergeStatic(hR, [sword]); c3MergeStatic(hL);
   c3MergeStatic(elR, [hR]); c3MergeStatic(elL, [hL, shield]); c3MergeStatic(L.armR, [elR]); c3MergeStatic(L.armL, [elL]);

diff --git a/refs/몬스터/3막/README.md b/refs/몬스터/3막/README.md
@@ -13,5 +13,5 @@ GPT(codex image_generation, ChatGPT 구독)로 뽑았다. 화풍 참고는 `refs
 | `hollowguard.jpg` | 빈 갑주 거상(78층~ 느린 거인 — 예전 살덩이 거인 자리, 내부 id `fleshgiant` 그대로) | 왕국 근위대의 거대한 판금 갑옷이 비어 있고 안을 채운 산호 살 촉수가 움직인다 · 면갑 틈·목·허리·팔꿈치·무릎·가슴 구멍으로 촉수와 빛나는 종양 · 녹슨 금 테 · 깨진 문장 · 뼈 투구 장식 · 해진 진홍 겉옷 · 두 손 철퇴 |
 | `broodtick.jpg` | 70층 포란충 | 알이 비치는 거대한 산호빛 알주머니 배 · 위를 덮은 크림 각질판(금 이음선) · 황금 홑눈 뭉치 · 늘어진 점액 · 무릎이 높이 솟은 아주 긴 다리 여섯 |
 | `gluttonghoul.jpg` | 80층 탐식 구울 | 회청 거구 · 어깨·등을 덮은 큰 산호 종양 · 어깨에 묻힌 머리의 거대한 입(누런 이빨·침) · 세로 꿰맨 자국의 큰 배 · 땅까지 늘어진 팔 검은 발톱 · 갈색 앞치마 · 허리 사슬 |
-| `corruptking.jpg` | 90층 부패한 왕 | 영웅 체격 · 중년 수염 얼굴 · 부러진 금관 · 크림 뼈·진홍 살 유기 외골격(두꺼운 어깨) · 오른어깨 청록 결정 · 금 한손검 · 뼈·살 카이트 방패(문장) · 해진 진홍 망토(금 검 문장) |
+| `corruptking.jpg` | 90층 부패한 왕(2판 — 사용자가 고른 '뼈 거상' 안. 첫 판은 2막 얼음 여왕보다 임팩트가 약해 다시 뽑았다 · `corruptking_v1.jpg`) | 거구 · 흰 수염 · 뿔 돋은 금관 · 머리 뒤로 솟은 청록 결정 가시 · 구멍 숭숭 난 뼈 판금(구멍마다 붉은 살 · 테두리 산호 술) · 큰 둥근 견갑과 금 원판 · 가슴 금 사이 빛나는 청록 결정 핵 · 금 허리띠 메달 · 붉은 앞자락 금 삼지창 · 뼈·금 탑방패(가운데 큰 결정) · 금 가시 철퇴 · 해진 진홍 망토(왕관·삼지창·용 문장) |
 | `rotheart.jpg` | 90층 부패의 심장 | 크림 돌벽에 박힌 산호빛 심장 · 벽으로 퍼지는 살 뿌리 · 검붉은 각질 껍질 넷(뼈 테) — 닫히면 마름모, 열리면 꽃잎처럼 젖혀져 빛나는 핵 |
